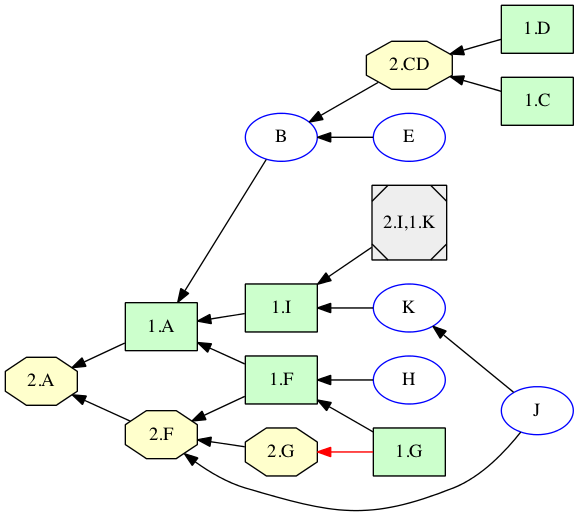
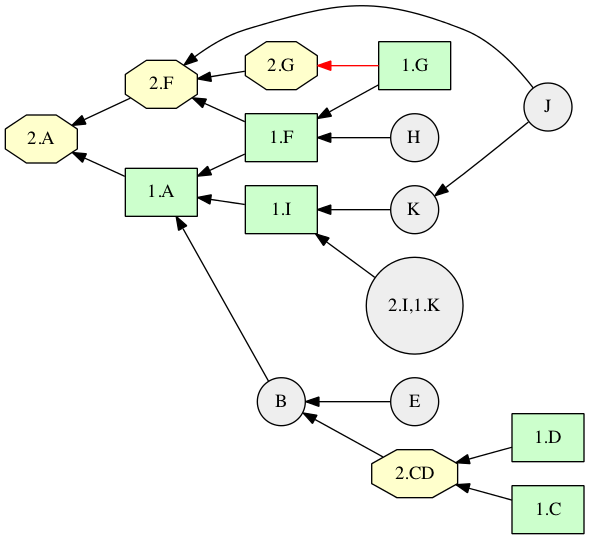
+= provenance

diff --git a/src-el/articulation.py b/src-el/articulation.py
@@ -288,15 +288,23 @@ class Articulation:
             elif self.relations == relation["+="]: # lsum
                 name3 = self.taxon3.dlvName()
                 if reasoner[rnr] == reasoner["dlv"]:
-		    result  = ":- #count{X: vrs(X), out(" + name1 + ",X), in(" + name3 + ",X)} = 0.\n" 
-		    result += ":- #count{X: vrs(X), in(" + name1 + ",X), in(" + name3 + ",X)} = 0.\n" 
-		    result += ":- #count{X: vrs(X), out(" + name2 + ",X), in(" + name3 + ",X)} = 0.\n" 
-		    result += ":- #count{X: vrs(X), in(" + name2 + ",X), in(" + name3 + ",X)} = 0.\n" 
+		    result  = ":- #count{X: vrs(X), out(" + name1 + ",X), in(" + name3 + ",X)} = 0, pw.\n" 
+		    result += ":- #count{X: vrs(X), in(" + name1 + ",X), in(" + name3 + ",X)} = 0, pw.\n" 
+		    result += ":- #count{X: vrs(X), out(" + name2 + ",X), in(" + name3 + ",X)} = 0, pw.\n" 
+		    result += ":- #count{X: vrs(X), in(" + name2 + ",X), in(" + name3 + ",X)} = 0, pw.\n" 
                 elif reasoner[rnr] == reasoner["gringo"]:
 		    result  = ":- [vrs(X): out(" + name1 + ",X): in(" + name3 + ",X)]0.\n" 
 		    result += ":- [vrs(X): in(" + name1 + ",X): in(" + name3 + ",X)]0.\n" 
 		    result += ":- [vrs(X): out(" + name2 + ",X): in(" + name3 + ",X)]0.\n" 
 		    result += ":- [vrs(X): in(" + name2 + ",X): in(" + name3 + ",X)]0.\n" 
+	        result += "pie(r" + self.ruleNum.__str__() + ", A, 1) :- ir(X, A), out(" + name1 + ", X), in(" + name3 + ", X), ix.\n"
+	        result += "c(r" + self.ruleNum.__str__() + ", A, 1) :- vr(X, A), out(" + name1 + ", X), in(" + name3 + ", X), ix.\n\n"
+	        result += "pie(r" + self.ruleNum.__str__() + ", A, 2) :- ir(X, A), in(" + name1 + ", X), in(" + name3 + ", X), ix.\n"
+	        result += "c(r" + self.ruleNum.__str__() + ", A, 2) :- vr(X, A), in(" + name1 + ", X), in(" + name3 + ", X), ix.\n\n"
+	        result += "pie(r" + self.ruleNum.__str__() + ", A, 3) :- ir(X, A), out(" + name2 + ", X), in(" + name3 + ", X), ix.\n"
+	        result += "c(r" + self.ruleNum.__str__() + ", A, 3) :- vr(X, A), out(" + name2 + ", X), in(" + name3 + ", X), ix.\n\n"
+	        result += "pie(r" + self.ruleNum.__str__() + ", A, 4) :- ir(X, A), in(" + name2 + ", X), in(" + name3 + ", X), ix.\n"
+	        result += "c(r" + self.ruleNum.__str__() + ", A, 4) :- vr(X, A), in(" + name2 + ", X), in(" + name3 + ", X), ix.\n\n"
 		result += "ir(X, r" + self.ruleNum.__str__() + ") :- in(" + name1 + ",X), out(" + name3 + ",X).\n" 
 		result += "ir(X, r" + self.ruleNum.__str__() + ") :- in(" + name2 + ",X), out(" + name3 + ",X).\n" 
 		#result += "in(" + name3 + ",X) :- in(" + name1 + ",X).\n" 
@@ -317,6 +325,14 @@ class Articulation:
 		    result += ":- [vrs(X): in(" + name1 + ",X): in(" + name2 + ",X)]0.\n" 
 		    result += ":- [vrs(X): out(" + name3 + ",X): in(" + name2 + ",X)]0.\n" 
 		    result += ":- [vrs(X): in(" + name3 + ",X): in(" + name2 + ",X)]0.\n" 
+	        result += "pie(r" + self.ruleNum.__str__() + ", A, 1) :- ir(X, A), out(" + name1 + ", X), in(" + name2 + ", X), ix.\n"
+	        result += "c(r" + self.ruleNum.__str__() + ", A, 1) :- vr(X, A), out(" + name1 + ", X), in(" + name2 + ", X), ix.\n\n"
+	        result += "pie(r" + self.ruleNum.__str__() + ", A, 2) :- ir(X, A), in(" + name1 + ", X), in(" + name2 + ", X), ix.\n"
+	        result += "c(r" + self.ruleNum.__str__() + ", A, 2) :- vr(X, A), in(" + name1 + ", X), in(" + name2 + ", X), ix.\n\n"
+	        result += "pie(r" + self.ruleNum.__str__() + ", A, 3) :- ir(X, A), out(" + name3 + ", X), in(" + name2 + ", X), ix.\n"
+	        result += "c(r" + self.ruleNum.__str__() + ", A, 3) :- vr(X, A), out(" + name3 + ", X), in(" + name2 + ", X), ix.\n\n"
+	        result += "pie(r" + self.ruleNum.__str__() + ", A, 4) :- ir(X, A), in(" + name3 + ", X), in(" + name2 + ", X), ix.\n"
+	        result += "c(r" + self.ruleNum.__str__() + ", A, 4) :- vr(X, A), in(" + name3 + ", X), in(" + name2 + ", X), ix.\n\n"
 		result += "ir(X, r" + self.ruleNum.__str__() + ") :- in(" + name1 + ",X), out(" + name2 + ",X).\n" 
 		result += "ir(X, r" + self.ruleNum.__str__() + ") :- in(" + name3 + ",X), out(" + name2 + ",X).\n" 
             elif self.relations == relation["+3="]:

diff --git a/src-el/alignment.py b/src-el/alignment.py
@@ -453,7 +453,7 @@ class TaxonomyMapping:
             if tmpStr != "": tmpStr = "," + tmpStr
             if blueNode:
 	        tmpStr = T1s[1] + tmpStr
-	        fDot.write("\"" + tmpStr +"\" [color=blue];\n")
+	        # fDot.write("\"" + tmpStr +"\" [color=blue];\n")
             else:
 	        tmpStr = T1 + tmpStr
             tmpCom += "  \""+tmpStr+"\"\n"
@@ -513,7 +513,7 @@ class TaxonomyMapping:
         fDot.write(taxa1)
         fDot.write("  node [shape=octagon style=\"filled\" fillcolor=\"#FFFFCC\"]\n")
         fDot.write(taxa2)
-        fDot.write("  node [shape=Msquare style=\"filled\" fillcolor=\"#EEEEEE\"]\n")
+        fDot.write("  node [shape=circle stype=\"filled\" fillcolor=\"#EEEEEE\"]\n")
         fDot.write(tmpCom)
 
 	for [T1, T2, P] in self.tr:
